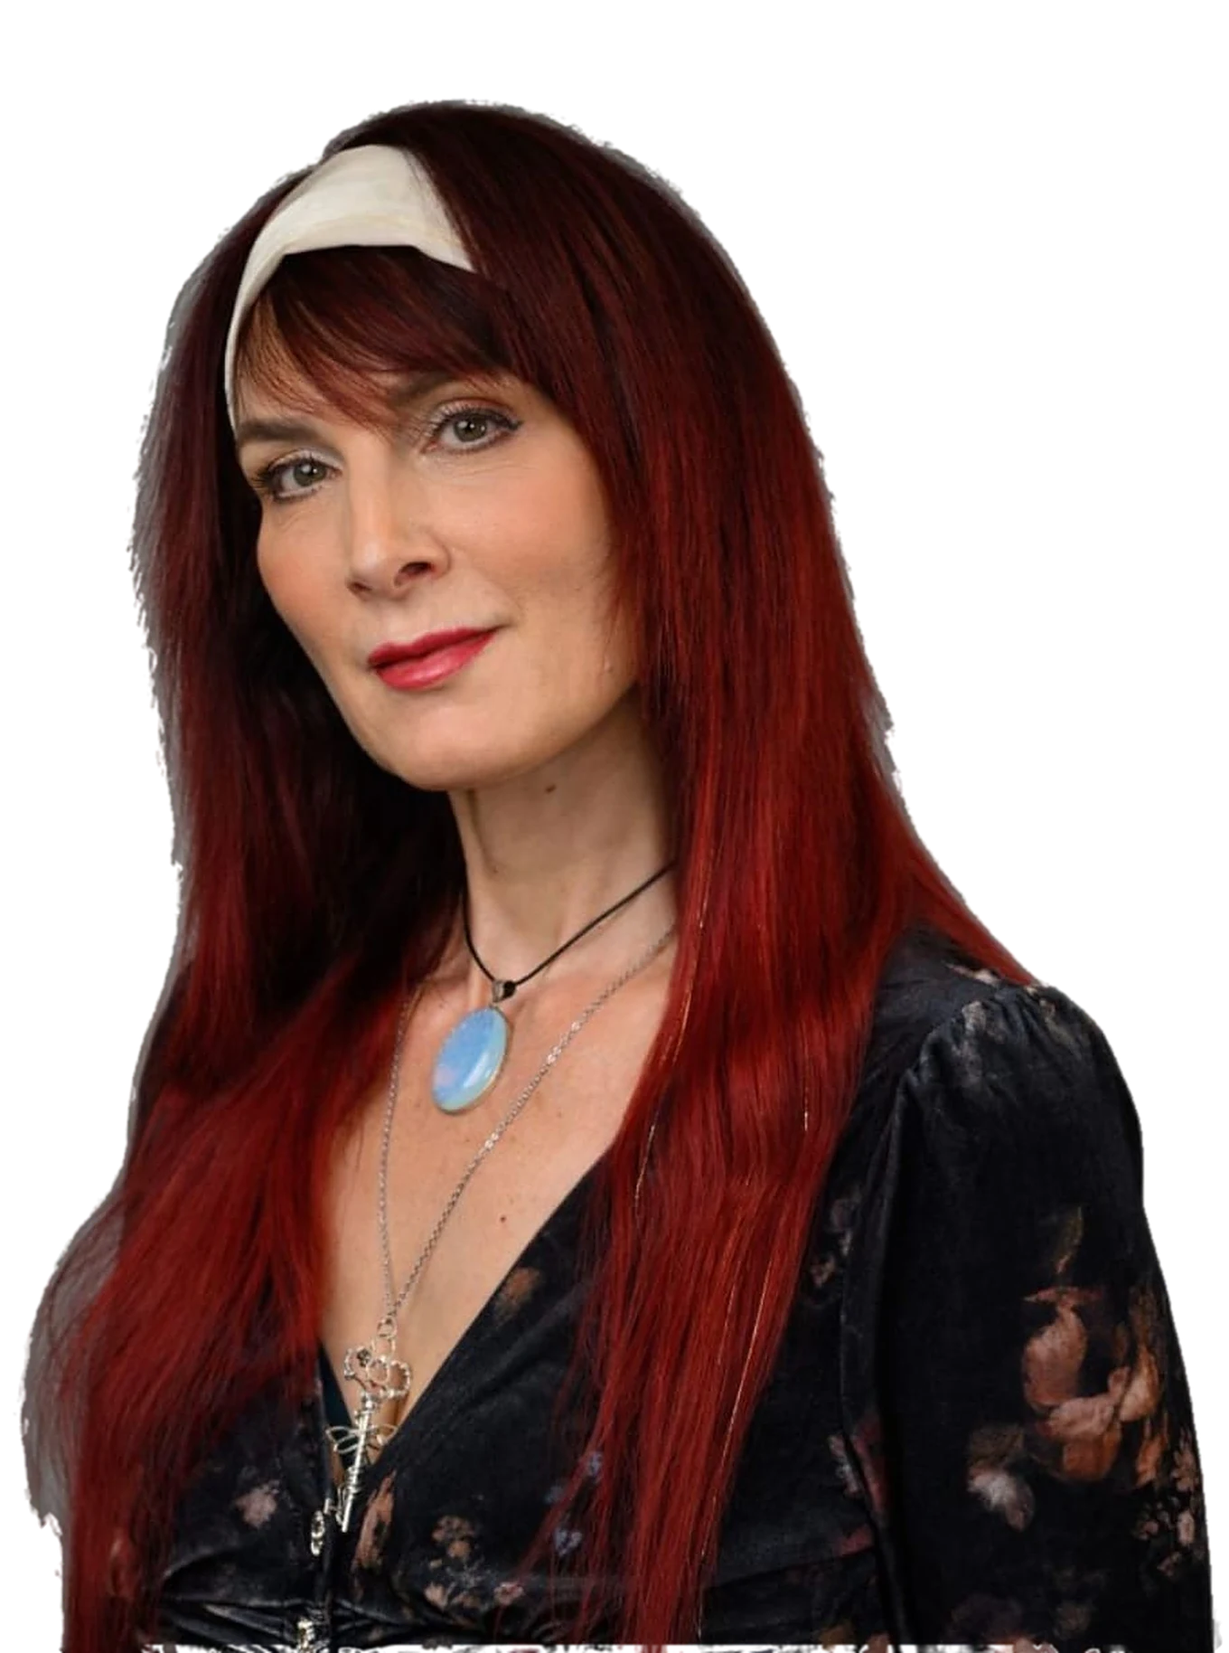
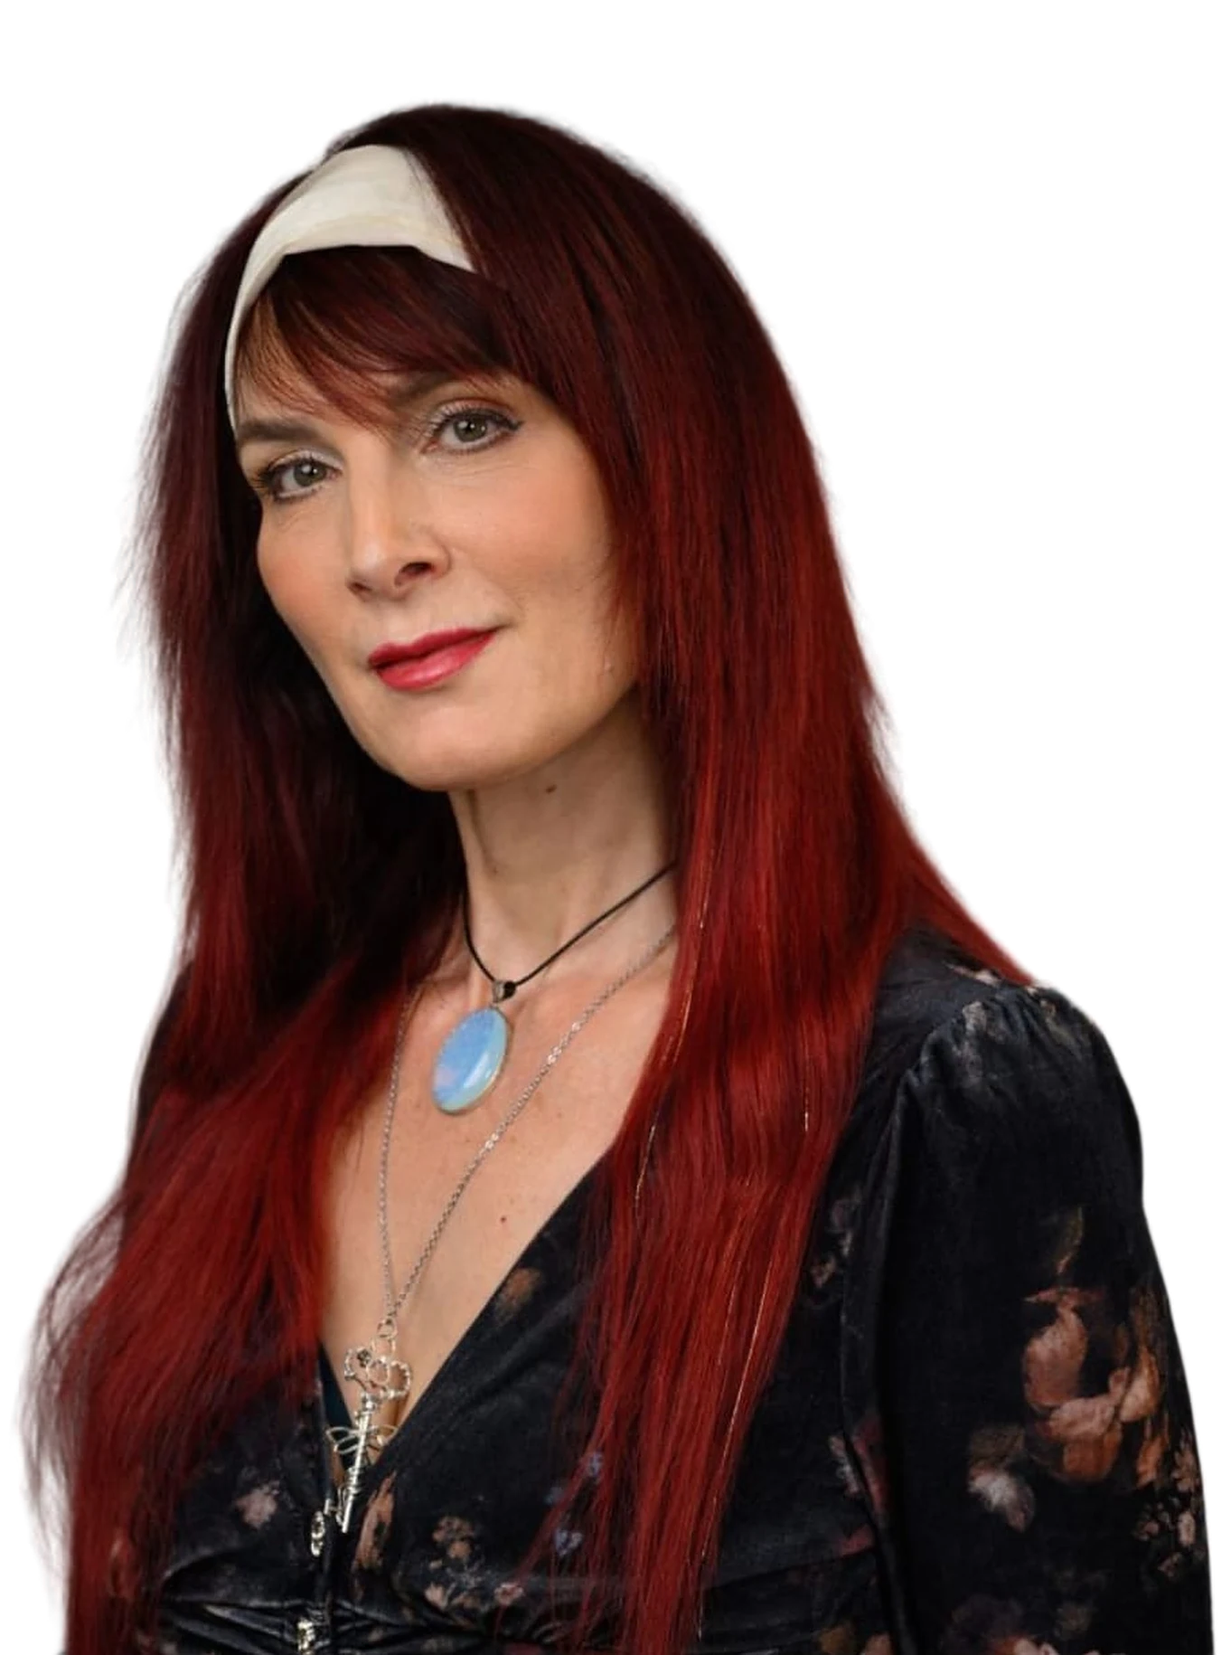
Testfassung v9: Passionsblume als Scroll-Animation, sauber freigestellte Porträts, flüssigeres Scrollen
- 144 Einzelbilder aus assets/bloom.mp4 (rückwärts, Knospe öffnet sich) in 1080 und 720 px
- Natur-Sektion bleibt beim Scrollen stehen (300vh), Canvas zeichnet das passende Bild,
  vorgeladen, scharf auf Retina, am Handy kleinere Bilder und Text nacheinander
- Willkommen und Über mich: Porträts mit KI-Modell neu freigestellt
- Ablauf auf großen Bildschirmen mittig
- Kompass: Schein über Deckkraft statt animiertem Schatten
- Flüssiger: überdeckte Himmel werden nicht mehr gezeichnet, Himmel ohne Drehung,
  1600-px-Himmel für normale Bildschirme, keine Weichzeichner hinter Flächen,
  Endlos-Animationen pausieren außerhalb des Bildschirms

Claude-Session: https://claude.ai/code/session_01JCb2Ujrak5fyx8UhQg3taq

diff --git a/site/un2qct42qp3fqs/js/v6.js b/site/un2qct42qp3fqs/js/v6.js
@@ -43,11 +43,22 @@
   winds.forEach(function (name) {
     var section = document.getElementById(name);
     var el = layer(name);
-    fades.push(gsap.fromTo(el, { opacity: 0 }, { opacity: 1, ease: "none", scrollTrigger: { trigger: section, start: "top 90%", end: "top 10%", scrub: 1.2 } }));
+    fades.push(gsap.fromTo(el, { autoAlpha: 0 }, { autoAlpha: 1, ease: "none", scrollTrigger: { trigger: section, start: "top 90%", end: "top 10%", scrub: 1.2 } }));
+    ScrollTrigger.create({ trigger: section, start: "top bottom", end: "bottom top", onToggle: function (self) { el.classList.toggle("is-live", self.isActive); } });
     if (!reduced) {
       gsap.fromTo(el.querySelector("img"), { scale: 1.14 }, { scale: 1, ease: "none", scrollTrigger: { trigger: section, start: "top bottom", end: "bottom top", scrub: 1.2 } });
     }
   });
+  // überdeckte Himmel gar nicht mehr zeichnen: ist ein Wind ganz da, verschwinden die Ebenen darunter
+  var stack = [layer("mitte"), document.querySelector(".sky-veil")];
+  winds.forEach(function (name, i) {
+    var below = stack.concat(winds.slice(0, i).map(layer));
+    ScrollTrigger.create({ trigger: document.getElementById(name), start: "top 8%",
+      onEnter: function () { below.forEach(function (el) { el.classList.add("is-covered"); }); },
+      onLeaveBack: function () { below.forEach(function (el) { el.classList.remove("is-covered"); }); } });
+  });
+  ScrollTrigger.create({ trigger: "#ankommen", endTrigger: "#kompass", start: "top top", end: "bottom top", onToggle: function (self) { layer("mitte").classList.toggle("is-live", self.isActive); } });
+  layer("mitte").classList.add("is-live");
   gsap.to(".sky-dawn", { opacity: 1, ease: "none", scrollTrigger: { trigger: "#begleitungen", start: "top bottom", end: "top 25%", scrub: 1.2 } });
 
   // ---------- Inhalte steigen sanft auf ----------
@@ -64,18 +75,6 @@
     // der Weg im Medizinrad zeichnet sich: Süden, Westen, Norden, Osten
     gsap.fromTo(".compass-lines .route", { strokeDashoffset: 1 }, { strokeDashoffset: 0, duration: 2.6, ease: "power2.inOut", scrollTrigger: { trigger: ".compass-rose", start: "top 70%", once: true } });
     gsap.fromTo(".compass-lines .route-tip", { opacity: 0 }, { opacity: 1, duration: .6, delay: 2.4, scrollTrigger: { trigger: ".compass-rose", start: "top 70%", once: true } });
-    // die Passionsblume öffnet sich Schicht für Schicht
-    var petals = gsap.utils.toArray(".bloom-layer");
-    var rings = gsap.utils.toArray(".bloom-ring");
-    gsap.set(rings, { xPercent: -50, yPercent: -50, scale: .2, opacity: 0 });
-    gsap.set(".bloom-flower", { xPercent: -50 });
-    gsap.timeline({ scrollTrigger: { trigger: ".nature", start: "top 92%", end: "top 30%", scrub: 1.4 } })
-      .fromTo(".bloom-flower", { yPercent: 78 }, { yPercent: 0, ease: "power1.out", duration: 2 }, 0)
-      .fromTo(petals[0], { "--r": "0%", rotate: -70, scale: 1.3 }, { "--r": "34%", rotate: 0, scale: 1, ease: "power2.out", duration: 1 }, 0)
-      .fromTo(petals[1], { "--r": "0%", rotate: -45, scale: 1.2 }, { "--r": "60%", rotate: 0, scale: 1, ease: "power2.out", duration: 1 }, .45)
-      .fromTo(petals[2], { "--r": "0%", rotate: -25, scale: 1.12, filter: "blur(6px)" }, { "--r": "100%", rotate: 0, scale: 1, filter: "blur(0px)", ease: "power2.out", duration: 1.1 }, .9)
-      .to(rings[0], { scale: 2.4, opacity: .9, duration: .6 }, .15).to(rings[0], { opacity: 0, scale: 2.9, duration: .45 }, .75)
-      .to(rings[1], { scale: 3.1, opacity: .8, duration: .6 }, .7).to(rings[1], { opacity: 0, scale: 3.6, duration: .45 }, 1.3);
     // vom Funktionieren ins Wahrnehmen: Zeile für Zeile
     gsap.utils.toArray(".shift-rows li").forEach(function (row) {
       gsap.timeline({ scrollTrigger: { trigger: row, start: "top 85%", once: true } })
@@ -83,6 +82,86 @@
         .from(row.querySelector(".to"), { opacity: 0, x: 20, duration: .9, ease: "power2.out" }, .35);
     });
   }
+
+  // ---------- Endlos-Animationen nur, solange ihr Abschnitt zu sehen ist ----------
+  if ("IntersectionObserver" in window) {
+    var io = new IntersectionObserver(function (entries) {
+      entries.forEach(function (en) { en.target.classList.toggle("is-off", !en.isIntersecting); });
+    }, { rootMargin: "10% 0px" });
+    document.querySelectorAll("main > section").forEach(function (sec) { io.observe(sec); });
+  }
+
+  // ---------- Natur: die Passionsblume öffnet sich Bild für Bild ----------
+  (function () {
+    var wrap = document.querySelector(".bloom-scroll");
+    if (!wrap) return;
+    var canvas = wrap.querySelector(".bloom-canvas"), ctx = canvas.getContext("2d");
+    var COUNT = 144;
+    var small = window.matchMedia("(max-width: 760px)").matches;
+    var dir = "../assets/bloom-frames/" + (small ? "720" : "1080") + "/f";
+    var frames = new Array(COUNT), loaded = 0, started = false, current = 0, drawn = -1, queued = false;
+    function src(i) { return dir + String(i + 1).padStart(3, "0") + ".webp"; }
+    function load(i) {
+      return new Promise(function (res) {
+        var img = new Image();
+        img.decoding = "async";
+        img.onload = function () { frames[i] = img; loaded++; res(); if (i === current || drawn < 0) request(); };
+        img.onerror = res;
+        img.src = src(i);
+      });
+    }
+    // alle Bilder vorladen, sechs gleichzeitig
+    function preloadAll() {
+      if (started) return;
+      started = true;
+      var next = 1;
+      function worker() { if (next >= COUNT) return Promise.resolve(); var i = next++; return load(i).then(worker); }
+      for (var w = 0; w < 6; w++) worker();
+    }
+    // Canvas in Gerätepixeln anlegen (scharf auf Retina), Inhalt wie object-fit: cover
+    function size() {
+      var dpr = Math.min(window.devicePixelRatio || 1, 2);
+      var w = Math.round(canvas.clientWidth * dpr), h = Math.round(canvas.clientHeight * dpr);
+      if (w && h && (canvas.width !== w || canvas.height !== h)) { canvas.width = w; canvas.height = h; drawn = -1; request(); }
+    }
+    function nearest(i) { for (var d = 0; d < COUNT; d++) { if (frames[i - d]) return frames[i - d]; if (frames[i + d]) return frames[i + d]; } return null; }
+    function draw() {
+      queued = false;
+      var img = nearest(current);
+      if (!img || (drawn === current && frames[current])) return;
+      var cw = canvas.width, ch = canvas.height, iw = img.naturalWidth, ih = img.naturalHeight;
+      var sc = Math.max(cw / iw, ch / ih), w = iw * sc, h = ih * sc;
+      ctx.drawImage(img, (cw - w) / 2, (ch - h) / 2, w, h);
+      drawn = frames[current] ? current : -1;
+    }
+    function request() { if (!queued) { queued = true; requestAnimationFrame(draw); } }
+    window.addEventListener("resize", size);
+    load(0).then(function () { size(); request(); });
+    // Rest erst laden, wenn die Blüte näher kommt
+    if ("IntersectionObserver" in window) {
+      var near = new IntersectionObserver(function (en) { if (en[0].isIntersecting) { preloadAll(); near.disconnect(); } }, { rootMargin: "250% 0px" });
+      near.observe(wrap);
+    } else preloadAll();
+
+    var steps = gsap.utils.toArray(".bloom-step", wrap);
+    if (reduced) { current = COUNT - 1; preloadAll(); return; }
+    var seq = { f: 0 };
+    var tl = gsap.timeline({ scrollTrigger: { trigger: wrap, start: "top top", end: "bottom bottom", scrub: .6 } });
+    tl.to(seq, { f: COUNT - 1, ease: "none", duration: 1, onUpdate: function () { var f = Math.round(seq.f); if (f !== current) { current = f; request(); } } }, 0)
+      .fromTo(".bloom-view", { scale: 1.08 }, { scale: 1, ease: "none", duration: 1 }, 0);
+    if (small) {
+      // am Handy: ein Textteil nach dem anderen
+      gsap.set(steps, { autoAlpha: 0, y: 16 });
+      tl.to(steps[0], { autoAlpha: 1, y: 0, duration: .1 }, .04).to(steps[0], { autoAlpha: 0, y: -16, duration: .08 }, .36)
+        .to(steps[1], { autoAlpha: 1, y: 0, duration: .1 }, .42).to(steps[1], { autoAlpha: 0, y: -16, duration: .08 }, .68)
+        .to(steps[2], { autoAlpha: 1, y: 0, duration: .1 }, .74);
+    } else {
+      gsap.set(steps, { autoAlpha: 0, y: 24 });
+      tl.to(steps[0], { autoAlpha: 1, y: 0, duration: .14 }, .02)
+        .to(steps[1], { autoAlpha: 1, y: 0, duration: .14 }, .34)
+        .to(steps[2], { autoAlpha: 1, y: 0, duration: .14 }, .66);
+    }
+  })();
 
   // ---------- Windrose, Leiste und Wegweiser: wo bin ich ----------
   var bar = document.querySelector(".bar");
@@ -197,8 +276,9 @@
     lay.style.setProperty("--x", ox || origin[name][0]);
     lay.style.setProperty("--y", oy || origin[name][1]);
     lay.style.setProperty("--r", "0%");
+    lay.classList.remove("is-covered");
     lay.classList.add("is-opening");
-    gsap.set(lay, { opacity: 1 });
+    gsap.set(lay, { autoAlpha: 1 });
     gust(v, 2.8);
     gsap.timeline()
       // die Böe erfasst die Seite und trägt sie fort

diff --git a/site/un2qct42qp3fqs/css/v6.css b/site/un2qct42qp3fqs/css/v6.css
@@ -1175,3 +1175,82 @@ html:not(.js) .bloom-layer { --r: 100%; }
 .photos:not(.photos--flip) .photos-one img { aspect-ratio: 1; object-fit: cover; object-position: 30% 100%;
   -webkit-mask-image: linear-gradient(to right, transparent 0, rgba(0, 0, 0, .5) 12%, #000 26%, #000 80%, transparent 100%), linear-gradient(to bottom, transparent 0, #000 22%, #000 90%, transparent 100%);
   mask-image: linear-gradient(to right, transparent 0, rgba(0, 0, 0, .5) 12%, #000 26%, #000 80%, transparent 100%), linear-gradient(to bottom, transparent 0, #000 22%, #000 90%, transparent 100%); }
+
+/* =====================================================================
+   v9: Passionsblume als Scroll-Animation, Ablauf mittig, flüssiger
+   ===================================================================== */
+/* „Was möchte sich in dir zeigen?“ steht jetzt allein, mittig */
+.pair--single { grid-template-columns: 1fr !important; width: min(680px, 100%); text-align: center; }
+.pair--single > div { margin-top: 0 !important; }
+.pair--single > div::before { inset: -20% -16%; }
+
+/* Natur: Bühne bleibt stehen, die Blüte öffnet sich, der Text kommt dazu */
+.bloom-scroll { position: relative; height: 300vh; margin-inline: calc(-1 * var(--pad)); }
+.overview > .bloom-scroll { margin-top: 6vh; }
+.bloom-stage { position: sticky; top: 0; height: 100vh; height: 100svh; display: grid; grid-template-columns: minmax(0, 1.25fr) minmax(0, 1fr); align-items: center; gap: 0 2vw; padding: 0 max(var(--pad), calc((100vw - 1320px) / 2)); overflow: hidden; }
+.bloom-view { position: relative; height: min(78vh, 760px); }
+.bloom-canvas { display: block; width: 100%; height: 100%;
+  -webkit-mask-image: linear-gradient(to right, transparent 0, rgba(0, 0, 0, .55) 12%, #000 26%, #000 76%, rgba(0, 0, 0, .55) 90%, transparent 100%), linear-gradient(to bottom, transparent 0, rgba(0, 0, 0, .55) 10%, #000 24%, #000 78%, rgba(0, 0, 0, .55) 90%, transparent 100%);
+  -webkit-mask-composite: source-in; mask-composite: intersect;
+  mask-image: linear-gradient(to right, transparent 0, rgba(0, 0, 0, .55) 12%, #000 26%, #000 76%, rgba(0, 0, 0, .55) 90%, transparent 100%), linear-gradient(to bottom, transparent 0, rgba(0, 0, 0, .55) 10%, #000 24%, #000 78%, rgba(0, 0, 0, .55) 90%, transparent 100%); }
+.bloom-copy { position: relative; isolation: isolate; width: min(460px, 100%); }
+.bloom-copy::before { content: ""; position: absolute; z-index: -1; inset: -22% -26%; pointer-events: none; background: var(--halo-light); }
+.bloom-copy :is(h3, p) { text-shadow: var(--glow-light); }
+.bloom-copy h3 { font-size: clamp(1.9rem, 3vw, 2.6rem); }
+.bloom-step + .bloom-step { margin-top: 1.4rem; }
+.bloom-step .aside { margin: 0; }
+.bloom-step .aside em { color: var(--earth); }
+html:not(.js) .bloom-scroll { height: auto; }
+html:not(.js) .bloom-stage { position: relative; }
+@media (max-width: 760px) {
+  .bloom-stage { grid-template-columns: 1fr; grid-template-rows: 58% 42%; align-items: stretch; padding: 0; }
+  .bloom-view { height: auto; }
+  .bloom-copy { width: auto; margin: 0 var(--pad); align-self: start; }
+  /* am Handy nacheinander statt untereinander, damit alles in den Bildschirm passt */
+  .bloom-step { position: absolute; inset: 0 0 auto; }
+  .bloom-step + .bloom-step { margin-top: 0; }
+  .bloom-copy h3 { font-size: 1.75rem; }
+  .bloom-copy .label { margin-bottom: .8rem; }
+}
+@media (prefers-reduced-motion: reduce) {
+  .bloom-scroll { height: auto; }
+  .bloom-stage { position: relative; }
+  .bloom-step { position: static; }
+}
+
+/* Ablauf auf großen Bildschirmen mittig statt am rechten Rand */
+.overview > .fog { margin-inline: auto; width: min(760px, 100%); }
+.overview > .fog::before { left: -12vw; right: -12vw; background: radial-gradient(closest-side, rgba(251, 246, 236, .92), rgba(251, 246, 236, .78) 62%, rgba(251, 246, 236, 0));
+  -webkit-mask-image: none; mask-image: none; }
+
+/* ---------- Flüssigkeit ---------- */
+/* Weichzeichner hinter Flächen kosten bei bewegtem Himmel jedes Bild Rechenzeit */
+.btn--ghost, .arch, .gate, .journey, .offer { -webkit-backdrop-filter: none; backdrop-filter: none; }
+.btn--ghost { background: rgba(251, 246, 236, .78); }
+.gate { background: rgba(251, 246, 236, .94); }
+.journey { background: rgba(251, 246, 236, .96); }
+.journey.is-dark { background: rgba(26, 20, 31, .94); }
+/* Mischmodus und große Schattenfilter entfernen */
+.painting--glow .glow, .energy-art .glow { mix-blend-mode: normal; background: radial-gradient(closest-side, rgba(255, 255, 240, .75), rgba(255, 236, 190, .3) 45%, rgba(255, 220, 160, 0)); }
+.welcome-photo img { filter: none; }
+.compass-center, .hero-mark, .meet-mark, .wheel-heart img { filter: none; }
+/* Kompass: Schein über die Deckkraft statt animiertem Schatten */
+.medal { transition: transform .5s cubic-bezier(.2, .7, .2, 1); will-change: transform; }
+.medal img { will-change: transform; }
+.wind-card:hover .medal { box-shadow: 0 20px 44px -22px rgba(30, 20, 10, .6); }
+.wind-card::before { content: ""; position: absolute; left: 50%; top: 6px; width: clamp(108px, 17vw, 196px); aspect-ratio: 1; translate: -50% 0; border-radius: 50%; pointer-events: none; background: radial-gradient(closest-side, rgba(232, 205, 148, .75), rgba(232, 205, 148, 0)); scale: 1.35; opacity: 0; transition: opacity .5s ease; }
+.wind-card:hover::before { opacity: 1; }
+@media (max-width: 600px) { .wind-card::before { width: var(--m); top: 0; } }
+/* Endlos-Animationen halten an, wenn ihr Abschnitt nicht zu sehen ist */
+.is-off *, .is-off *::before, .is-off *::after { animation-play-state: paused !important; }
+/* Himmel: nur die sichtbaren Ebenen bewegen sich */
+.sky-layer img { animation-play-state: paused; }
+.sky-layer.is-live img { animation-play-state: running; }
+.gate:hover { box-shadow: 0 24px 50px -28px rgba(30, 20, 10, .6), inset 0 0 0 4px rgba(251, 246, 236, .6), inset 0 0 0 5px rgba(176, 138, 76, .35); }
+.is-covered { visibility: hidden !important; }
+/* Himmel atmet ohne Drehung: Drehen zwingt bei jedem Bild zum Neuberechnen des ganzen Gemäldes */
+@keyframes drift {
+  0%   { translate: -1.3% 0.4%; scale: 1.04; }
+  50%  { translate: 0.6% -0.8%; scale: 1.08; }
+  100% { translate: 1.5% 0.5%; scale: 1.05; }
+}

diff --git a/site/un2qct42qp3fqs/index.html b/site/un2qct42qp3fqs/index.html
@@ -28,16 +28,16 @@
     </div>
     <div class="sky-veil"></div>
     <div class="sky-layer" data-scene="sueden" style="--focus: 62%">
-      <picture><source media="(max-width: 600px)" srcset="../v3/img/szene-sueden-hoch.webp"><img src="../v3/img/szene-sueden.webp" srcset="../v3/img/szene-sueden-1280.webp 1280w, ../v3/img/szene-sueden.webp 1584w" sizes="100vw" alt="" decoding="async"></picture>
+      <picture><source media="(max-width: 600px)" srcset="../v3/img/szene-sueden-hoch.webp"><img src="../v3/img/szene-sueden.webp" srcset="../v3/img/szene-sueden-1280.webp 1280w, ../v3/img/szene-sueden-1600.webp 1600w, ../v3/img/szene-sueden.webp 1584w" sizes="100vw" alt="" decoding="async"></picture>
     </div>
     <div class="sky-layer" data-scene="westen" style="--focus: 40%">
-      <picture><source media="(max-width: 600px)" srcset="../v3/img/szene-westen-hoch.webp"><img src="../v3/img/szene-westen.webp" srcset="../v3/img/szene-westen-1280.webp 1280w, ../v3/img/szene-westen.webp 2560w" sizes="100vw" alt="" decoding="async"></picture>
+      <picture><source media="(max-width: 600px)" srcset="../v3/img/szene-westen-hoch.webp"><img src="../v3/img/szene-westen.webp" srcset="../v3/img/szene-westen-1280.webp 1280w, ../v3/img/szene-westen-1600.webp 1600w, ../v3/img/szene-westen.webp 2560w" sizes="100vw" alt="" decoding="async"></picture>
     </div>
     <div class="sky-layer" data-scene="norden" style="--focus: 68%">
-      <picture><source media="(max-width: 600px)" srcset="../v3/img/szene-norden-hoch.webp"><img src="../v3/img/szene-norden.webp" srcset="../v3/img/szene-norden-1280.webp 1280w, ../v3/img/szene-norden.webp 2560w" sizes="100vw" alt="" decoding="async"></picture>
+      <picture><source media="(max-width: 600px)" srcset="../v3/img/szene-norden-hoch.webp"><img src="../v3/img/szene-norden.webp" srcset="../v3/img/szene-norden-1280.webp 1280w, ../v3/img/szene-norden-1600.webp 1600w, ../v3/img/szene-norden.webp 2560w" sizes="100vw" alt="" decoding="async"></picture>
     </div>
     <div class="sky-layer" data-scene="osten" style="--focus: 52%">
-      <picture><source media="(max-width: 600px)" srcset="../v3/img/szene-osten-hoch.webp"><img src="../v3/img/szene-osten.webp" srcset="../v3/img/szene-osten-1280.webp 1280w, ../v3/img/szene-osten.webp 2560w" sizes="100vw" alt="" decoding="async"></picture>
+      <picture><source media="(max-width: 600px)" srcset="../v3/img/szene-osten-hoch.webp"><img src="../v3/img/szene-osten.webp" srcset="../v3/img/szene-osten-1280.webp 1280w, ../v3/img/szene-osten-1600.webp 1600w, ../v3/img/szene-osten.webp 2560w" sizes="100vw" alt="" decoding="async"></picture>
     </div>
     <div class="sky-mist"></div>
     <div class="sky-dawn"></div>
@@ -533,25 +533,32 @@
         </div>
       </div>
 
-      <div class="pair">
+      <div class="pair pair--single">
         <div class="rise">
           <p class="label">In jeder Begleitung</p>
           <h3>Was möchte sich in dir <em>zeigen?</em></h3>
           <p>Ich verbinde die energetische Arbeit mit kreativem Ausdruck. In Farbe, Bewegung, Tanz, Klang oder in einem Bild aus Naturmaterialien. So kannst du das, was sich zeigt, auf deine eigene Weise integrieren und verankern.</p>
         </div>
-        <div class="nature">
-          <div class="bloom-flower" aria-hidden="true">
-            <img class="bloom-layer" src="../img/passionsblume-frei.webp" alt="" width="720" height="720" loading="lazy">
-            <img class="bloom-layer" src="../img/passionsblume-frei.webp" alt="" width="720" height="720" loading="lazy">
-            <img class="bloom-layer" src="../img/passionsblume-frei.webp" alt="" width="720" height="720" loading="lazy">
-            <span class="bloom-ring"></span><span class="bloom-ring"></span>
+      </div>
+
+      <!-- Natur: die Passionsblume öffnet sich beim Scrollen (Einzelbilder auf einem Canvas) -->
+      <div id="natur" class="bloom-scroll">
+        <div class="bloom-stage">
+          <div class="bloom-view">
+            <canvas class="bloom-canvas" width="1080" height="608" aria-hidden="true"></canvas>
           </div>
-          <div class="nature-panel">
-            <p class="label">Wo wir arbeiten</p>
-            <h3>Natur, unsere <em>größte Kraftquelle</em></h3>
-            <p class="nature-lead">In der Verbindung mit der Natur verbindest du dich mit dir selbst.</p>
-            <p>Jedes Setting findet in einem geschützten Raum statt. Auf Wunsch arbeiten wir auch draußen, in direkter Verbindung mit Erde und Himmel. Die Details besprechen wir persönlich, im Einklang mit Wetter und Jahreszeit.</p>
-            <p class="aside">Wie die Passionsblume sich Schicht für Schicht öffnet, entfaltet sich auch Veränderung in ihrem eigenen Rhythmus. Von innen heraus.</p>
+          <div class="bloom-copy">
+            <div class="bloom-step">
+              <p class="label">Wo wir arbeiten</p>
+              <h3>Natur, unsere <em>größte Kraftquelle</em></h3>
+              <p class="nature-lead">In der Verbindung mit der Natur verbindest du dich mit dir selbst.</p>
+            </div>
+            <div class="bloom-step">
+              <p>Jedes Setting findet in einem geschützten Raum statt. Auf Wunsch arbeiten wir auch draußen, in direkter Verbindung mit Erde und Himmel. Die Details besprechen wir persönlich, im Einklang mit Wetter und Jahreszeit.</p>
+            </div>
+            <div class="bloom-step">
+              <p class="aside">Wie die Passionsblume sich Schicht für Schicht öffnet, entfaltet sich auch Veränderung in ihrem eigenen Rhythmus. <em>Von innen heraus.</em></p>
+            </div>
           </div>
         </div>
       </div>
